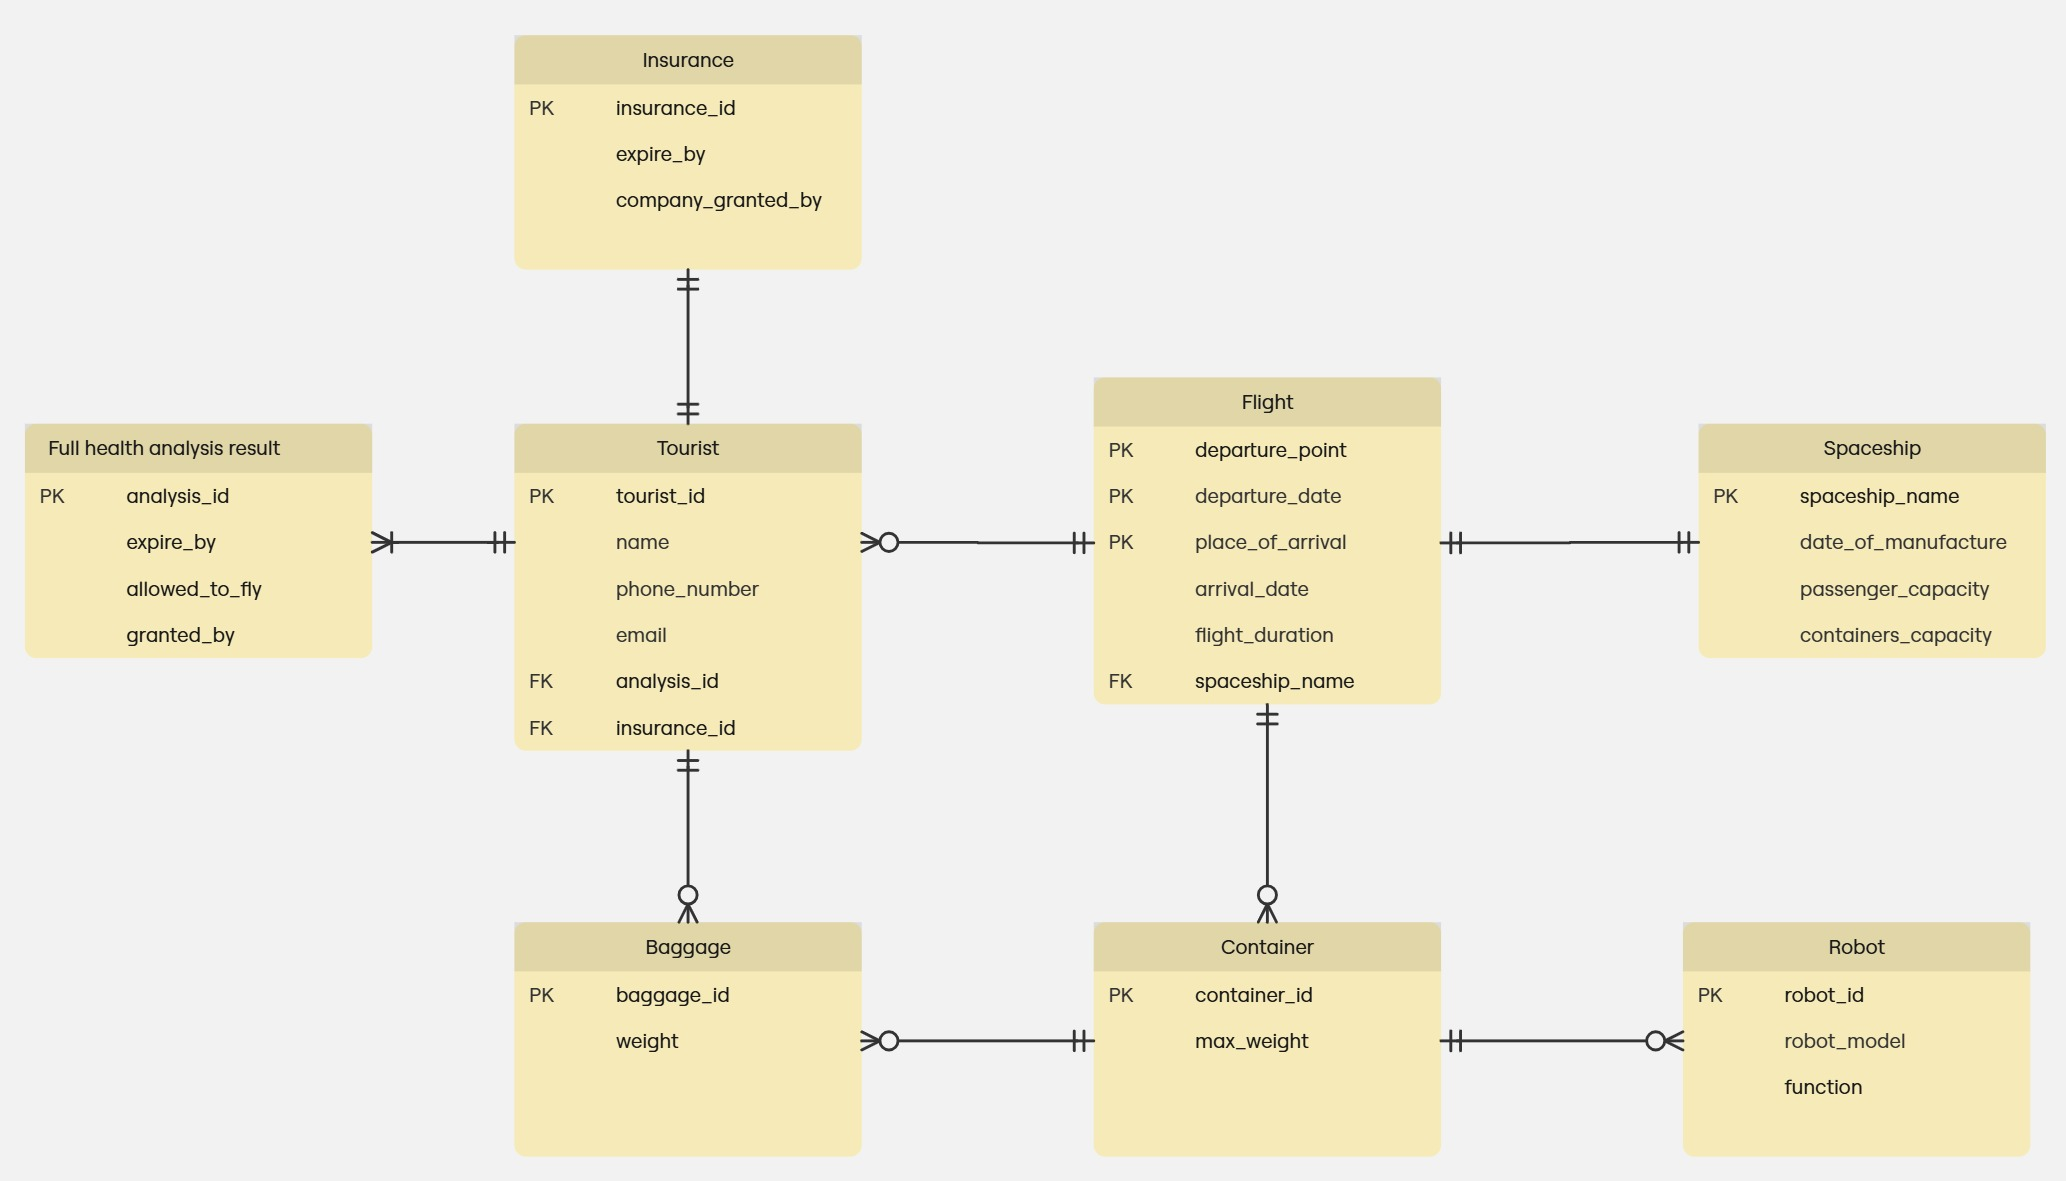
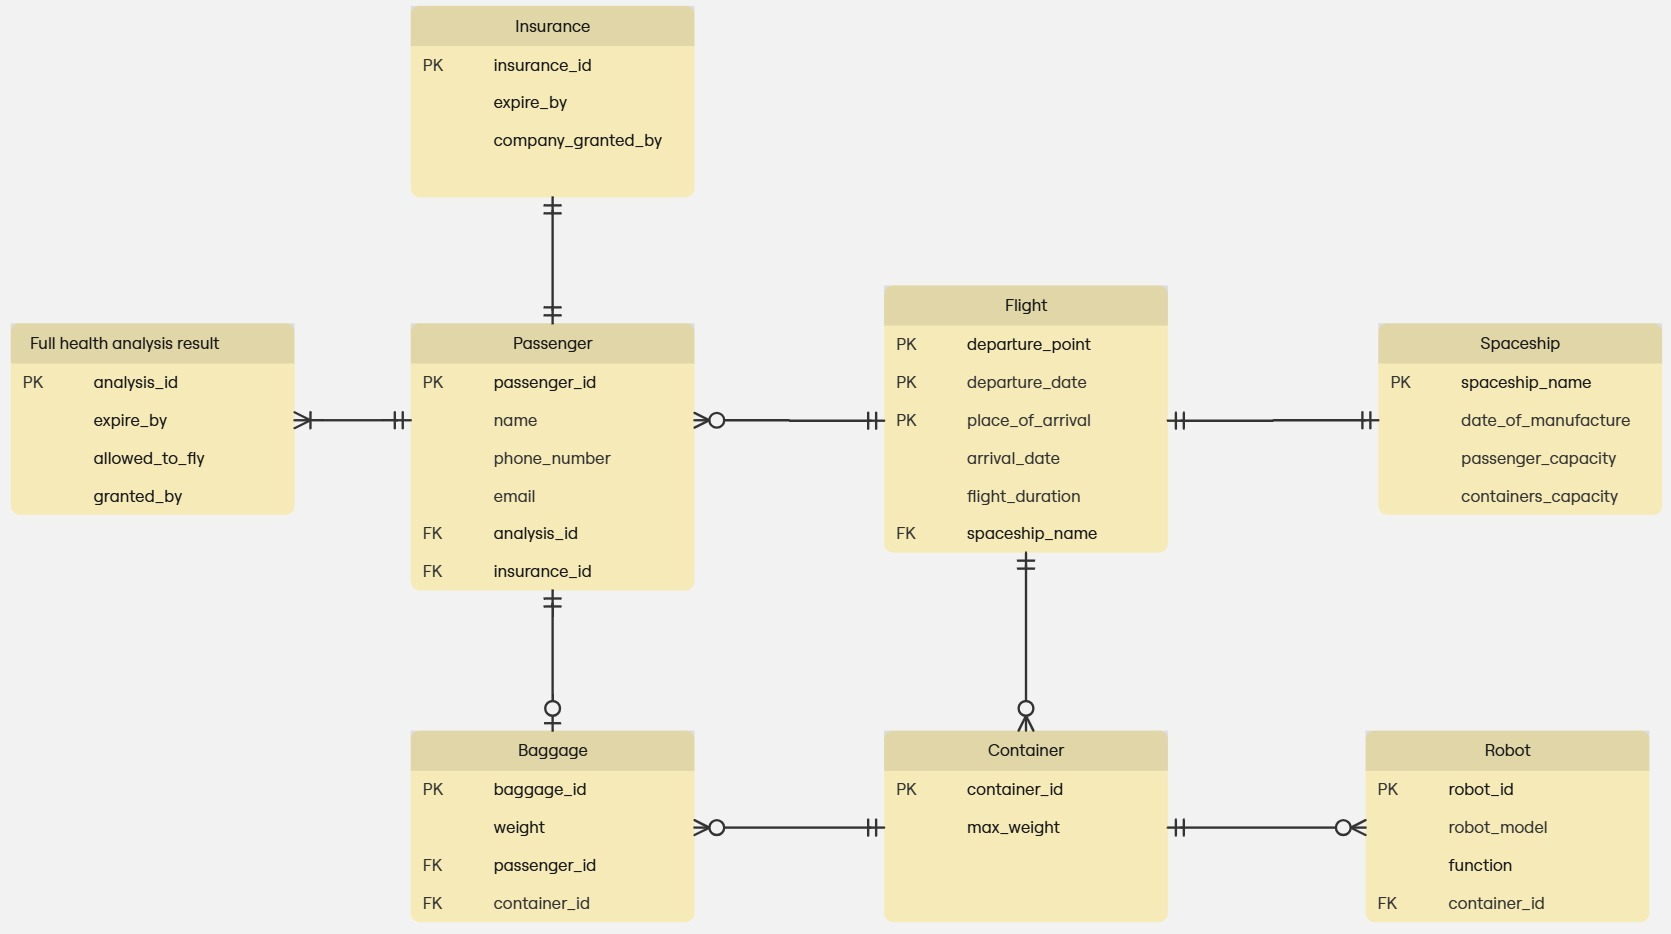
Some changes in diagram + add readme file in Lab 1

diff --git a/Lab 1/README.md b/Lab 1/README.md
@@ -1,0 +1,128 @@
+## USC: Fly Me to the Moon
+United Space Corporation за сприяння урядів Сполучених Штатів Америки і Європейського Союзу, представляє першу в історії людства програму космопасажиризму на 
+постійну базу на Місяці - "Fly Me to the Moon". У стані повністю контрольованого і безпечного космічного польоту, пасажири будуть доставлені на постійну місячну 
+базу "Columbus". Ви зможете отримати унікальний досвід польоту на космічному кораблі і побачити наш супутник на власні очі. Вас чекають тури по поверхні Місяця, 
+спортивні заходи в умовах низької гравітації, ви навіть зможете взяти участь в наукових експериментах! 
+That's one small step for a man, one giant leap for mankind.
+---
+## Вимоги
+
+**Мета:**  
+Забезпечити зберігання даних про пасажирів, космічні рейси, кораблі, вантажні контейнери, багаж і роботів, що транспортуються на місячну базу.  
+Система повинна підтримувати такі основні процеси:
+- реєстрацію пасажирів, їх медичних аналізів і страхових полісів;
+- планування та облік космічних рейсів;
+- зберігання інформації про кораблі, якими виконуються рейси;
+- відстеження багажу, контейнерів і вантажів (у тому числі роботів, що перевозяться на базу).
+
+**Бізнес-правила:**
+1. Кожен пасажир повинен мати дійсний медичний аналіз і страховку перед польотом.  
+2. Один рейс виконується одним космічним кораблем, але може перевозити кілька пасажирів і контейнерів.  
+3. Контейнери можуть містити багаж або роботів.  
+4. Корабель має обмежену місткість пасажирів і контейнерів.  
+5. Пасажир може здійснювати кілька рейсів у різний час.  
+6. Кожен робот транспортується як окремий вантаж у контейнері.
+
+---
+
+## Список сутностей та атрибутів
+
+### **Passenger**
+| Атрибут | Опис |
+|----------|------|
+| `passenger_id` *(PK)* | Унікальний ідентифікатор пасажира |
+| `name` | Ім’я пасажира |
+| `phone_number` | Контактний номер телефону |
+| `email` | Електронна адреса |
+| `analysis_id` *(FK)* | Посилання на медичний аналіз |
+| `insurance_id` *(FK)* | Посилання на страхування |
+
+---
+
+### **Insurance**
+| Атрибут | Опис |
+|----------|------|
+| `insurance_id` *(PK)* | Унікальний ідентифікатор страхового полісу |
+| `expire_by` | Дата закінчення дії полісу |
+| `company_granted_by` | Назва компанії, що видала поліс |
+
+---
+
+### **Full health analysis result**
+| Атрибут | Опис |
+|----------|------|
+| `analysis_id` *(PK)* | Унікальний ідентифікатор аналізу |
+| `expire_by` | Дата закінчення дії медичного висновку |
+| `allowed_to_fly` | Логічний прапорець, чи допущено пасажира до польоту |
+| `granted_by` | Назва медичного центру або лікаря, який видав висновок |
+
+---
+
+###**Flight**
+| Атрибут | Опис |
+|----------|------|
+| `departure_point` *(PK)* | Точка відправлення |
+| `departure_date` *(PK)* | Дата вильоту |
+| `place_of_arrival` *(PK)* | Місце прибуття |
+| `arrival_date` | Дата прибуття |
+| `flight_duration` | Тривалість польоту |
+| `spaceship_name` *(FK)* | Назва корабля, який виконує рейс |
+
+> Первинний ключ є **композитним** і складається з трьох атрибутів:  
+> (`departure_point`, `place_of_arrival`, `departure_date`).
+
+---
+
+###**Spaceship**
+| Атрибут | Опис |
+|----------|------|
+| `spaceship_name` *(PK)* | Унікальна назва корабля |
+| `date_of_manufacture` | Дата виготовлення |
+| `passenger_capacity` | Максимальна кількість пасажирів |
+| `containers_capacity` | Максимальна кількість контейнерів |
+
+---
+
+###**Container**
+| Атрибут | Опис |
+|----------|------|
+| `container_id` *(PK)* | Унікальний ідентифікатор контейнера |
+| `max_weight` | Максимальна вантажопідйомність контейнера |
+
+---
+
+###**Baggage**
+| Атрибут | Опис |
+|----------|------|
+| `baggage_id` *(PK)* | Унікальний ідентифікатор багажу |
+| `weight` | Вага багажу |
+| `passenger_id` *(FK)* | Пасажир, якому належить багаж |
+| `container_id` *(FK)* | Контейнер, у якому розміщено багаж |
+
+
+---
+
+###**Robot**
+| Атрибут | Опис |
+|----------|------|
+| `robot_id` *(PK)* | Унікальний ідентифікатор робота |
+| `robot_model` | Модель робота |
+| `function` | Призначення робота (напр. техобслуговування бази) |
+| `container_id` *(FK)* | Контейнер, у якому транспортується робот |
+
+---
+
+## Пояснення зв’язків
+
+| Зв’язок | Тип | Опис |
+|----------|------|------|
+| **Passenger – Insurance** | 1:1 | Пасажир повинен мати один страховий поліс |
+| **Passenger – Full health analysis result** | 1..N:1 | Кожен пасажир має один або кілька медичних аналізів |
+| **Passenger – Flight** | 0..N:1 | На одному рейсі може бути як багато пасажирів, так і жодного |
+| **Passenger – Baggage** | 1:0..1 | Пасажир може мати лише один багаж, або жодного |
+| **Flight – Spaceship** | 1:1 | На одному рейсі лише один корабель |
+| **Flight – Container** | 1:0..N | Один рейс може транспортувати кілька контейнерів, або жодного |
+| **Container – Baggage** | 1:0..N | Один контейнер може містити кілька багажів пасажирів, або жодного |
+| **Container – Robot** | 1:0..N | Один контейнер може транспортувати кілька роботів, або жодного |
+
+---
